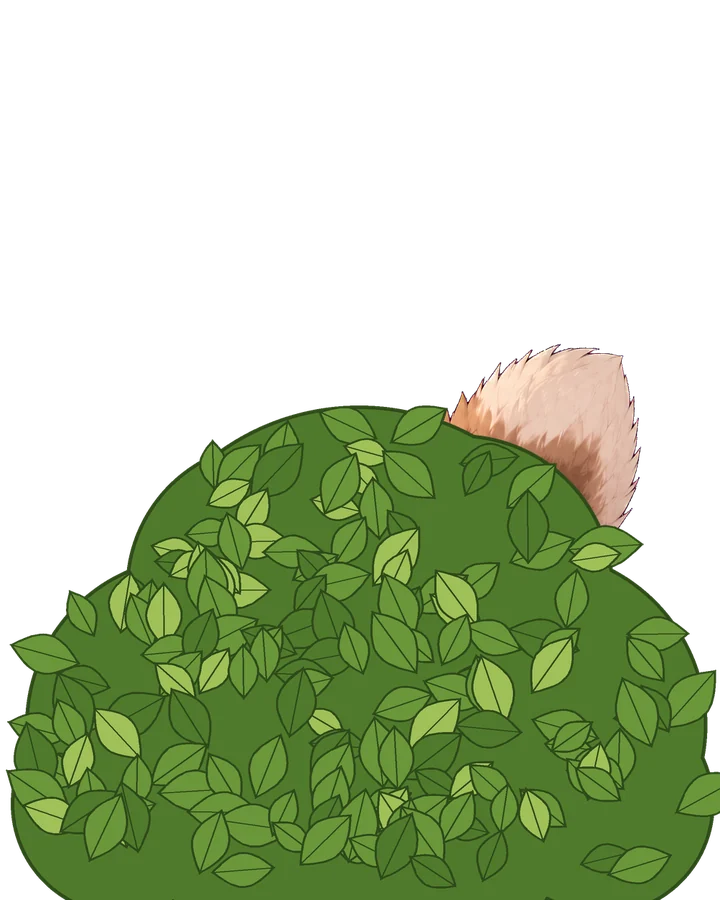
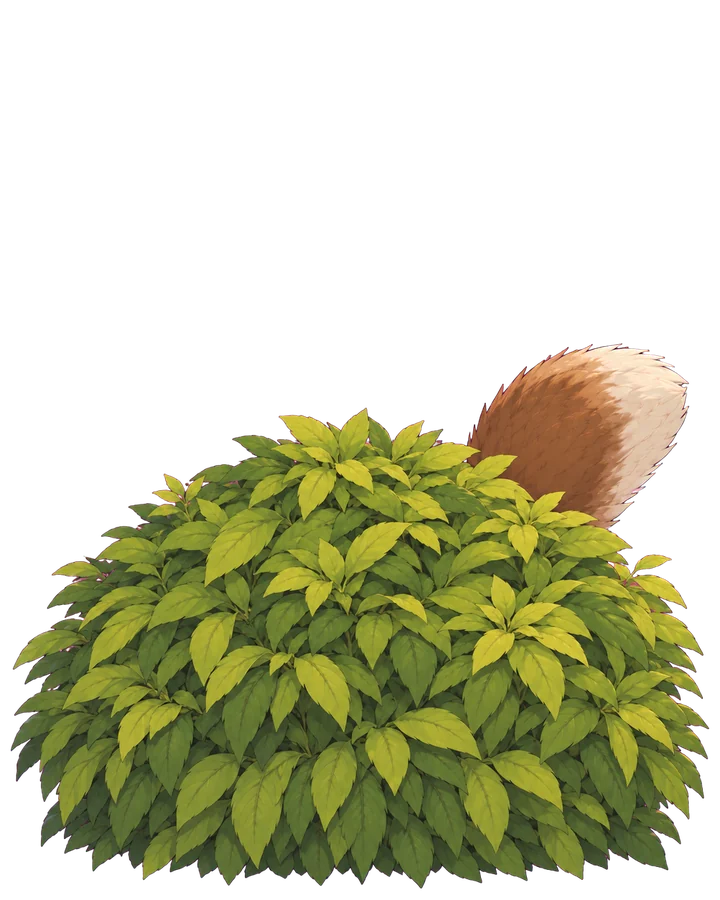
Replace provisional bush with new bush art
Claude-Session: https://claude.ai/code/session_01QrSEsgaPePgyv6pVp7rR2o

diff --git a/tanukun/config.js b/tanukun/config.js
@@ -13,7 +13,7 @@ window.TANU_CONFIG = {
     troubled: 'images/muni.webp',      // 困り（いまは「お腹むにむに」で代用）
     angry:    'images/angry.webp',     // 怒り
     melt:     'images/happy.webp',     // とろけ（いまは「にっこり」で代用）
-    bush:     'images/bush.webp',      // 茂み（仮の絵）
+    bush:     'images/bush.webp',      // 茂み
     muni:     'images/muni.webp',      // お腹むにむに
     ponpoko1: 'images/ponpoko1.webp',  // お腹ぽんぽこ①
     ponpoko2: 'images/ponpoko2.webp'   // お腹ぽんぽこ②

diff --git a/tanukun/README.md b/tanukun/README.md
@@ -8,7 +8,7 @@
 |---|---|---|
 | `config.js` | 絵のファイル名、タップ範囲、怒るまでの回数、隠れる秒数など | ◎ |
 | `lines.js` | セリフ集（1行＝1セリフ） | ◎ |
-| `images/` | 絵（Windows版の絵を背景透過・WebP形式に変換したもの。茂みのみ仮） | ◎ |
+| `images/` | 絵（Windows版の絵を背景透過・WebP形式に変換したもの） | ◎ |
 | `app.js` | 動きのプログラム本体 | ほぼ不要 |
 | `index.html` / `style.css` | 画面の骨組み・見た目 | ほぼ不要 |
 | `manifest.webmanifest` / `sw.js` | ホーム画面に追加するための設定（PWA） | 不要 |
@@ -32,7 +32,7 @@
 | とろけ | happy（にっこり）で代用 |
 | おなかタップ | ponpoko1 ⇔ ponpoko2 を交互に（照れ・困り中は muni） |
 | 怒り | angry（怒り顔） |
-| 茂み | bush（しっぽを切り出して作った仮の絵） |
+| 茂み | bush（茂み・横幅を合わせて縮小して配置） |
 
 ## 絵の差し替え
 
